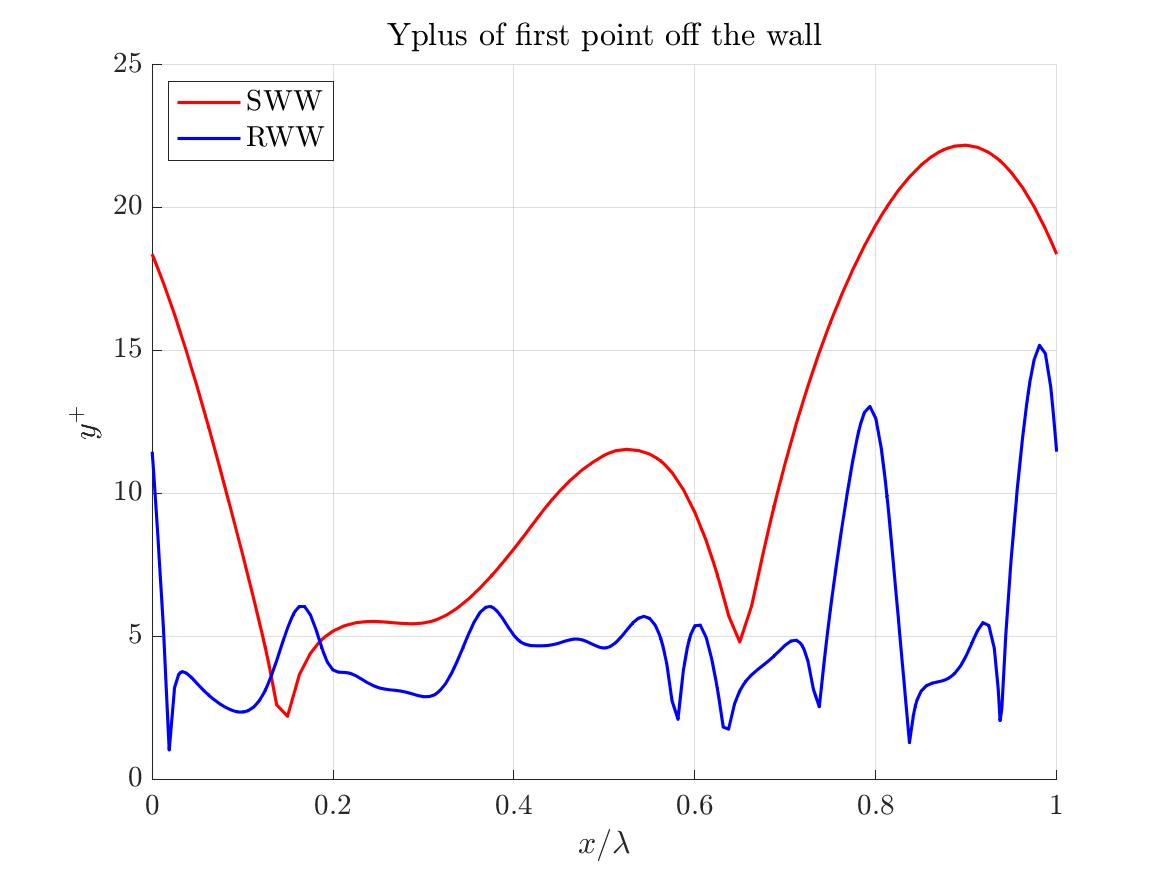
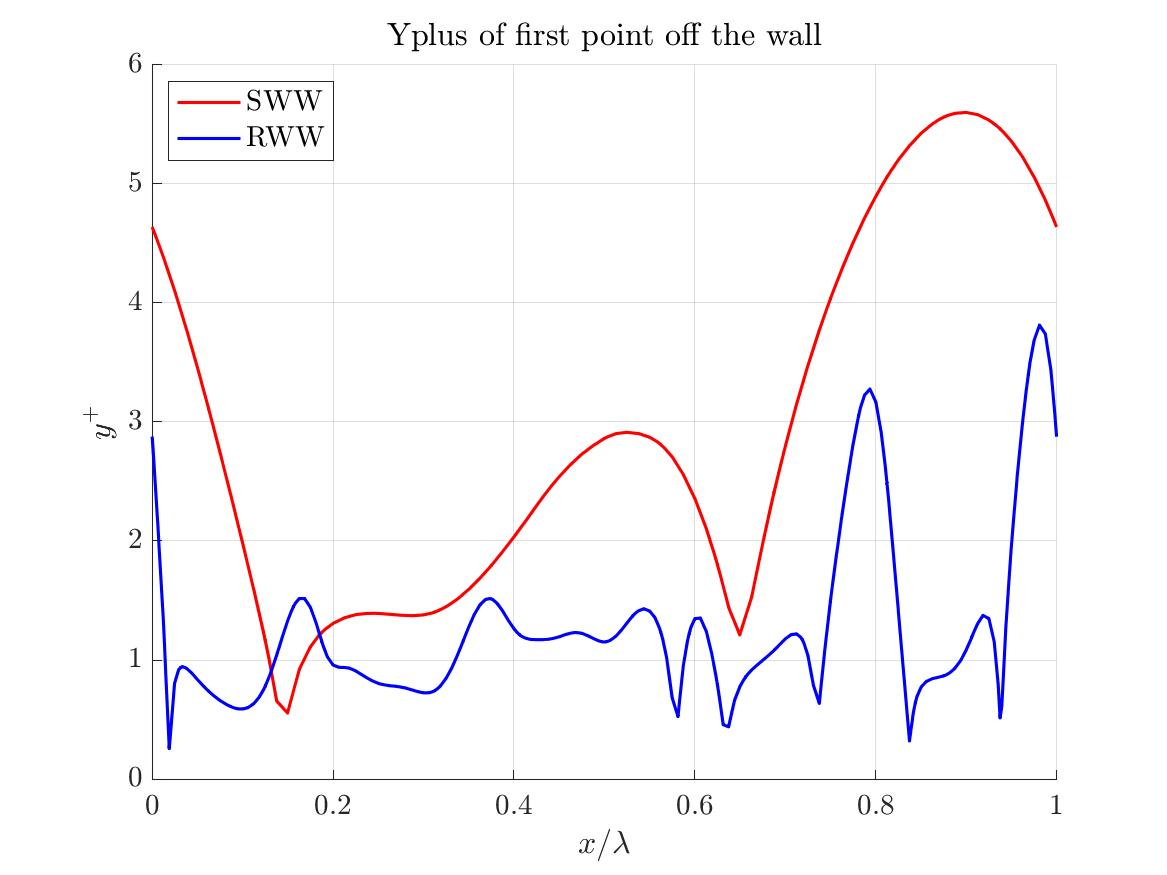
yp at first elem

diff --git a/mtlb/wwP.m b/mtlb/wwP.m
@@ -174,7 +174,7 @@ ylabel('$$y^+$$');
 lgd=legend('location','northwest');lgd.FontSize=14;
 
 % (ny,nx,N)
-npt = 16;
+npt = 8;
 plot(xyzS(npt,:,1),uplS(npt,:,2),'r-','linewidth',1.50,'displayname','SWW');
 plot(xyzR(npt,:,1),uplR(npt,:,2),'b-','linewidth',1.50,'displayname','RWW');
 
